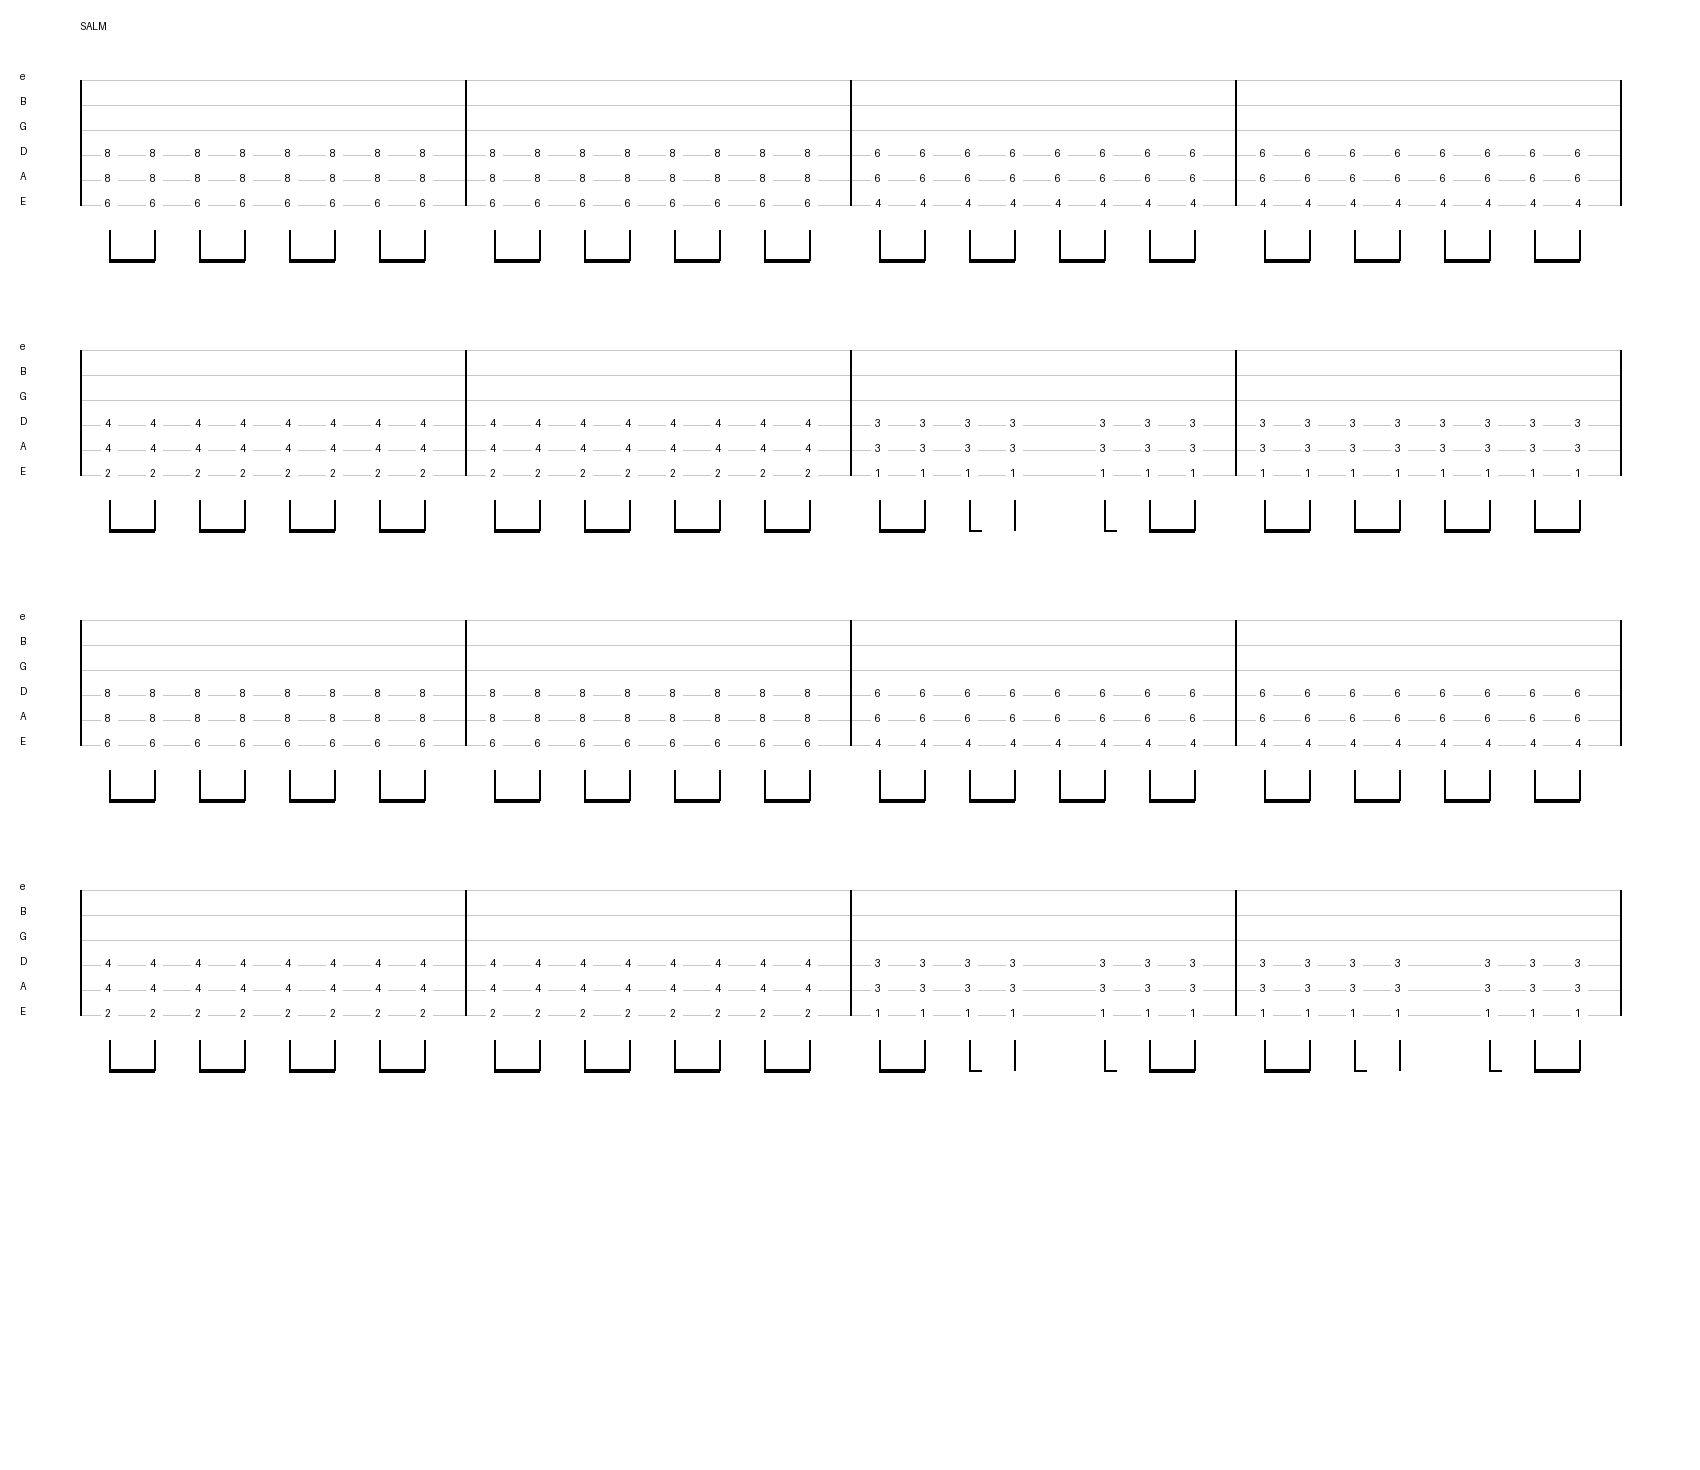
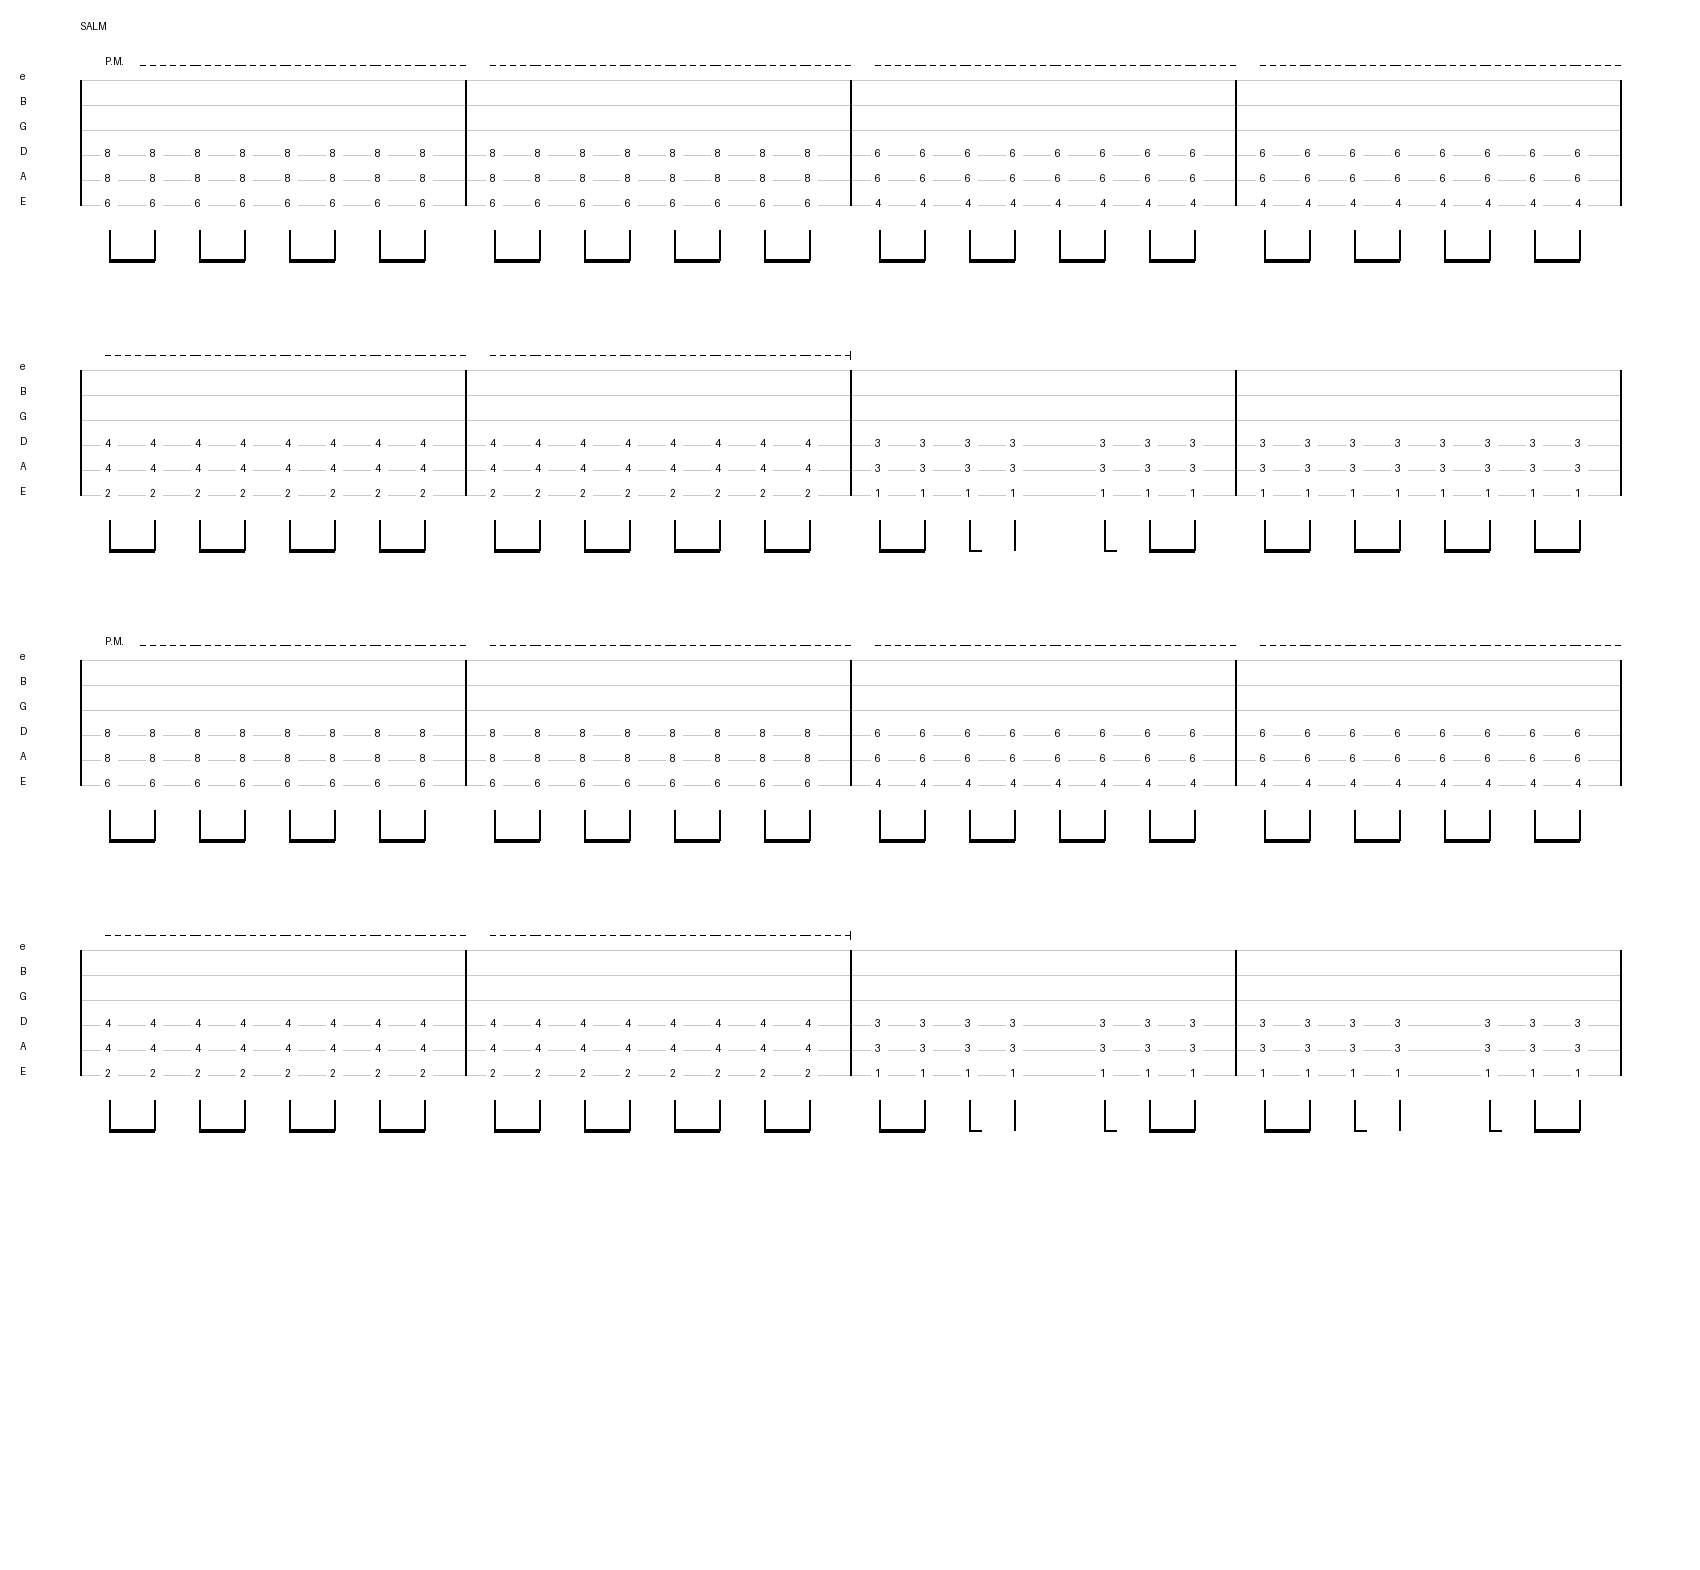
add basic palm mute

diff --git a/TabRenderer.py b/TabRenderer.py
@@ -16,8 +16,13 @@ def render_tab(segment: Segment, output_path="guitar_tab.png"):
     MARGIN_LEFT = 80
     MARGIN_RIGHT = 80 
     TITLE_HEIGHT = 80 
-    SYSTEM_HEIGHT = (6 * LINE_SPACING) + 120 
+    SYSTEM_HEIGHT = (6 * LINE_SPACING) + 140 # Increased to accommodate P.M. notation
     
+    # P.M. Specific Constants
+    PM_Y_OFFSET = -15
+    DASH_GAP = 5
+    TICK_H = 8
+
     # Calculate Measure Width based on units
     MEASURE_WIDTH = (UNITS_PER_MEASURE * BEAT_WIDTH) + BAR_PADDING
     LINE_CONTENT_WIDTH = MEASURES_PER_LINE * MEASURE_WIDTH
@@ -45,10 +50,17 @@ def render_tab(segment: Segment, output_path="guitar_tab.png"):
         # First bar of every line
         draw.line([(MARGIN_LEFT, y_top), (MARGIN_LEFT, y_top + 5 * LINE_SPACING)], fill="black", width=2)
 
+    def draw_dashed_segment(x_start, x_end, y):
+        curr = x_start
+        while curr < x_end:
+            draw.line([(curr, y), (min(curr + DASH_GAP, x_end), y)], fill="black", width=1)
+            curr += DASH_GAP * 2
+
     # --- Rendering State ---
     acc_dur_total = 0 
-    final_x = MARGIN_LEFT # Track the last position reached
-    final_y = TITLE_HEIGHT # Track the last row reached
+    final_x = MARGIN_LEFT 
+    final_y = TITLE_HEIGHT 
+    last_style = None # Track the style of the previous note
     
     for idx, note in enumerate(notes):
         # 1. Determine Position
@@ -63,7 +75,9 @@ def render_tab(segment: Segment, output_path="guitar_tab.png"):
             draw_staff_elements(current_y_top)
 
         current_x = MARGIN_LEFT + (measure_in_system * MEASURE_WIDTH) + (unit_in_measure * BEAT_WIDTH) + BAR_PADDING
-        final_x = current_x + ((note.duration or 0.5) * BEAT_WIDTH)
+        note_dur = (note.duration or 0.5)
+        next_x = current_x + (note_dur * BEAT_WIDTH)
+        final_x = next_x
 
         # 2. Draw Mid-line Bars
         if unit_in_measure == 0 and measure_in_system > 0:
@@ -81,6 +95,24 @@ def render_tab(segment: Segment, output_path="guitar_tab.png"):
                     draw.rectangle([current_x - 4, y - 8, current_x + 12, y + 8], fill="white")
                     draw.text((current_x, y - 8), label, fill="black")
 
+            # --- Palm Mute Handling (Look-behind) ---
+            if note.style == StrumStyle.PALM_MUTED:
+                pm_y = current_y_top + PM_Y_OFFSET
+                line_start_x = current_x
+                
+                # If this is the start of a PM section, draw the text
+                if last_style != StrumStyle.PALM_MUTED:
+                    draw.text((current_x, pm_y - 10), "P.M.", fill="black")
+                    line_start_x += 35 # Offset line to start after "P.M." text
+                
+                # Draw dashed segment for this note only
+                draw_dashed_segment(line_start_x, next_x, pm_y)
+                
+                # Look ahead ONLY to check if we need to terminate the line with a tick
+                is_last_pm = (idx + 1 == len(notes)) or (notes[idx+1].style != StrumStyle.PALM_MUTED)
+                if is_last_pm:
+                    draw.line([(next_x, pm_y - TICK_H/2), (next_x, pm_y + TICK_H/2)], fill="black", width=1)
+
             # 4. Rhythmic Stems & Flags
             stem_y_start = current_y_top + (6 * LINE_SPACING)
             stem_x = current_x + 4
@@ -96,15 +128,17 @@ def render_tab(segment: Segment, output_path="guitar_tab.png"):
                 elif not is_beamed_from_behind:
                     draw.line([(stem_x, bottom_y), (stem_x + 12, bottom_y)], fill="black", width=2)
 
-        # 5. Right-edge closure (handles end of staff lines mid-song)
+        # Update style tracker for next iteration
+        last_style = note.style
+
+        # 5. Right-edge closure
         if (acc_dur_total + (note.duration or 0)) % (UNITS_PER_MEASURE * MEASURES_PER_LINE) == 0:
             draw.line([(MARGIN_LEFT + LINE_CONTENT_WIDTH, current_y_top), 
                        (MARGIN_LEFT + LINE_CONTENT_WIDTH, current_y_top + 5 * LINE_SPACING)], fill="black", width=2)
 
         acc_dur_total += (note.duration if note.duration else 0)
 
-    # 6. ABSOLUTE FINAL BAR (The fix)
-    # This catches the very last measure if it didn't land exactly on a system boundary
+    # 6. ABSOLUTE FINAL BAR
     if acc_dur_total % (UNITS_PER_MEASURE * MEASURES_PER_LINE) != 0:
         draw.line([(final_x, final_y), (final_x, final_y + 5 * LINE_SPACING)], fill="black", width=2)
 
